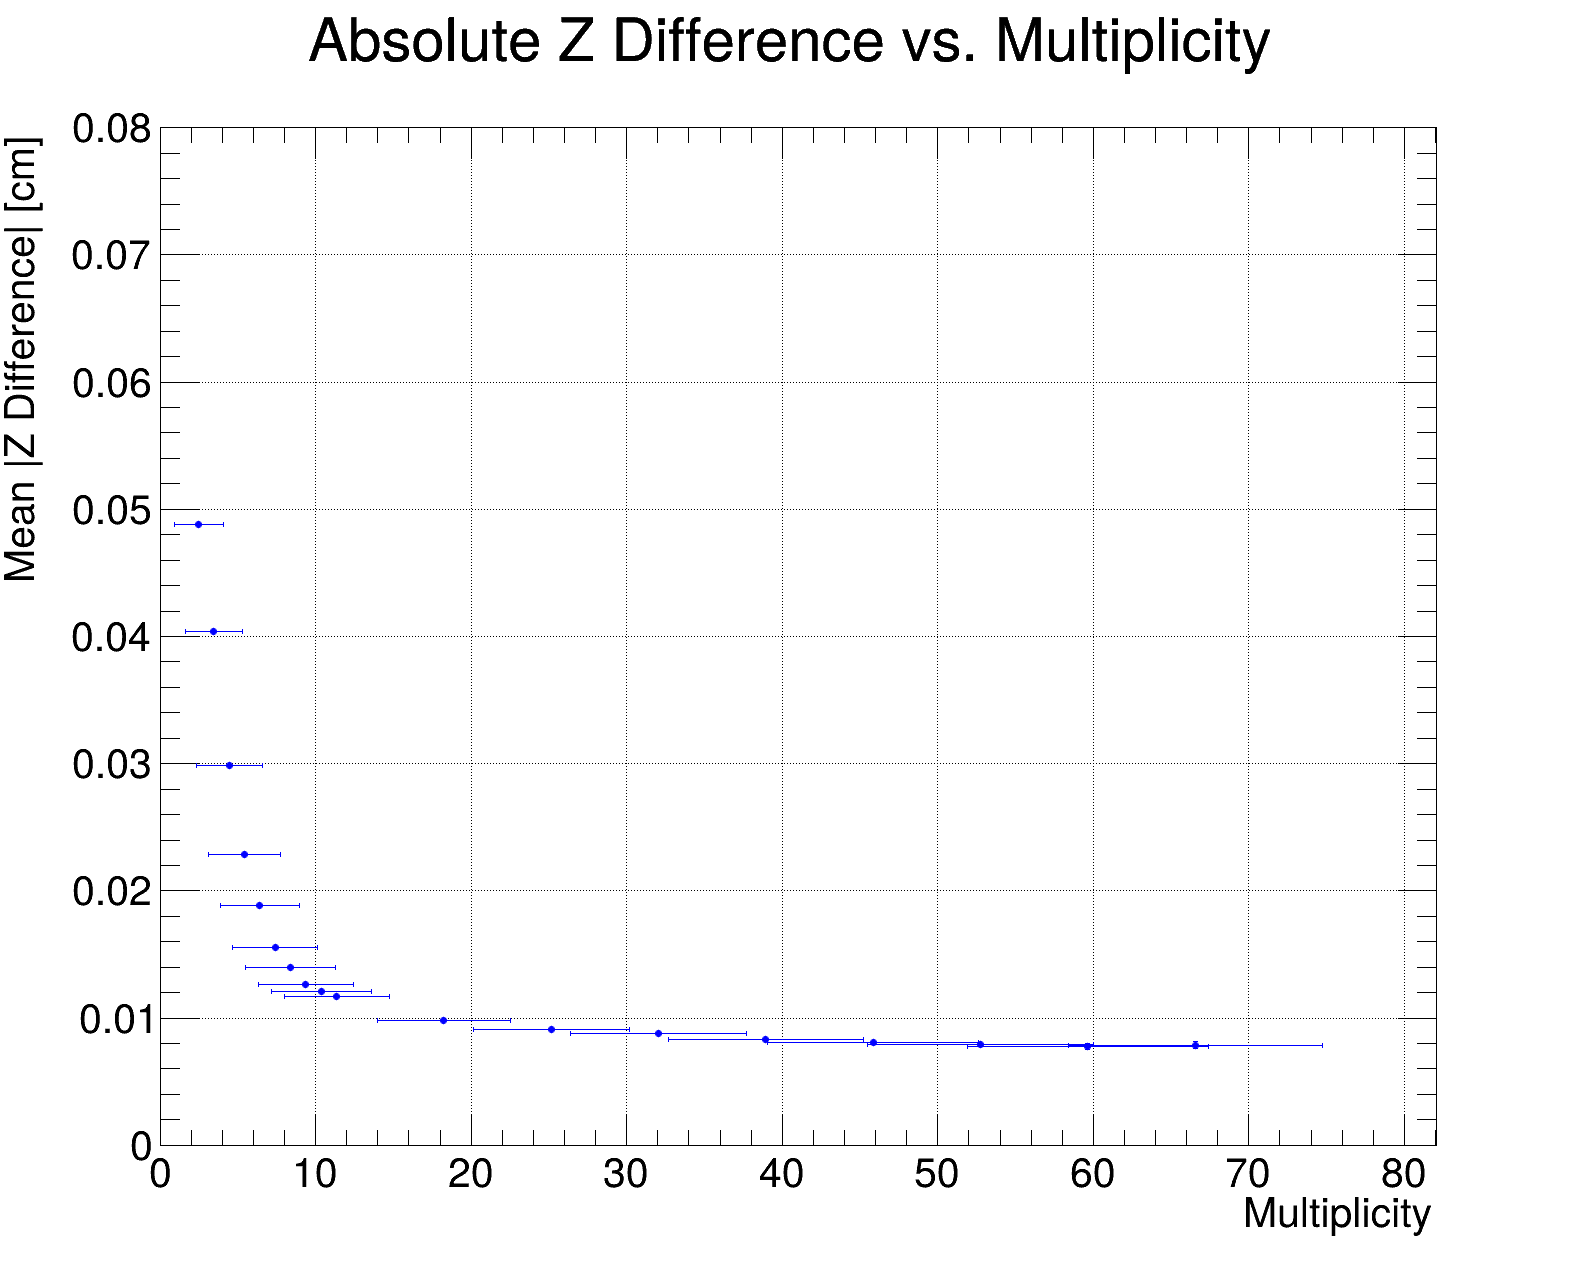
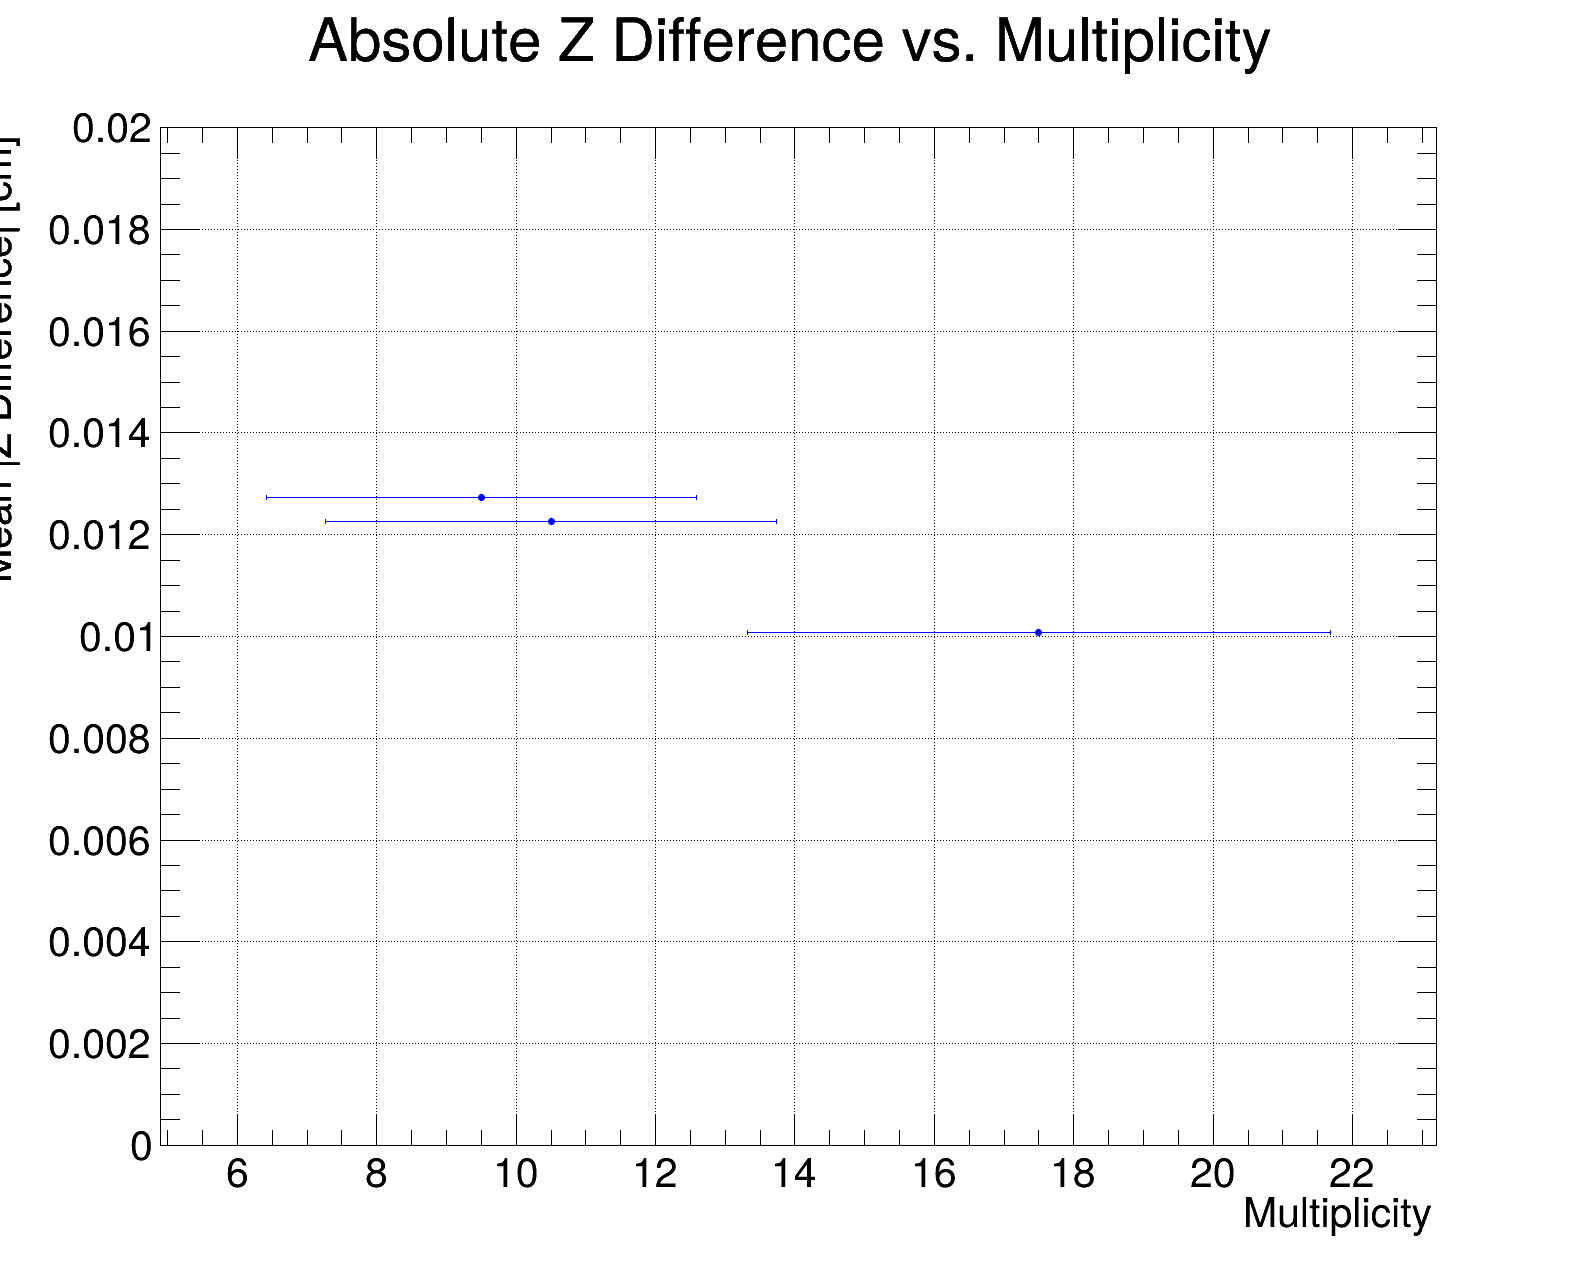
fixed format label on TProfile

diff --git a/project/macros/analysis.C b/project/macros/analysis.C
@@ -91,9 +91,9 @@ void analysis(unsigned int events = 1000000, string distr="custom") {
     double MultMax=0;
     
     if( distr=="uni"){
-      nMultBins = 10;
-      MultMin = 10; 
-      MultMax = 20;
+      nMultBins = 30;
+      MultMin = 0; 
+      MultMax = 30;
      
     } else if(distr=="gaus"){
       nMultBins = 40;
@@ -120,8 +120,8 @@ void analysis(unsigned int events = 1000000, string distr="custom") {
     TH1D* histRes = new TH1D("Residuals", "Z Residuals;Z Difference (reco - gen) [cm];Entries", nResBins, ResMin, ResMax);
     TH1D* histMultTotal = new TH1D("MultTotal", "Multiplicity Distribution;Multiplicity;Entries", nMultBins, MultMin, MultMax);
     TH1D* histMultValid = new TH1D("MultValid", "Valid Events Multiplicity;Multiplicity;Entries", nMultBins, MultMin, MultMax);  
-    TH1D* histZTotal = new TH1D("ZTotal", "Total Events vs Z;Z_{gen} [cm];Entries", nZBins, zMin, zMax);
-    TH1D* histZValid = new TH1D("ZValid", "Valid Events vs Z;Z_{gen} [cm];Entries", nZBins, zMin, zMax);
+    TH1D* histZTotal = new TH1D("ZTotal", "Total Vertices vs Z;Z_{gen} [cm];Entries", nZBins, zMin, zMax);
+    TH1D* histZValid = new TH1D("ZValid", "Reco Vertices vs Z;Z_{gen} [cm];Entries", nZBins, zMin, zMax);
     
     histZTotal->Sumw2();
     histZValid->Sumw2();
@@ -318,6 +318,8 @@ void analysis(unsigned int events = 1000000, string distr="custom") {
 
   if( distr=="uni"){
     profileZDiffGen->GetYaxis()->SetRangeUser(0, 0.04);
+    profileZDiffGen->GetYaxis()->SetMaxDigits(2);
+    profileZDiffGen->GetYaxis()->SetTitleOffset(1.2);
     graphEff->GetYaxis()->SetRangeUser(0.95, 1.001);
     graphZDiff->GetYaxis()->SetRangeUser(0, 0.02);
     graphEffZ->GetYaxis()->SetRangeUser(0.9, 1.001);
@@ -325,13 +327,16 @@ void analysis(unsigned int events = 1000000, string distr="custom") {
   
   } else if (distr=="gaus"){
     profileZDiffGen->GetYaxis()->SetRangeUser(0, 0.03);
+    profileZDiffGen->GetYaxis()->SetMaxDigits(2);
+    profileZDiffGen->GetYaxis()->SetTitleOffset(1.2);
     graphEff->GetYaxis()->SetRangeUser(0.85, 1.001);
     graphZDiff->GetYaxis()->SetRangeUser(0, 0.08);
     graphEffZ->GetYaxis()->SetRangeUser(0.8, 1.001);
   
   } else { // custom
     profileZDiffGen->GetYaxis()->SetRangeUser(0.005, 0.03);
-    profileZDiffGen->GetYaxis()->SetTitleOffset(1.51);
+    profileZDiffGen->GetYaxis()->SetMaxDigits(2);
+    profileZDiffGen->GetYaxis()->SetTitleOffset(1.2);
     graphEff->GetYaxis()->SetRangeUser(0.85, 1.001);
     graphZDiff->GetYaxis()->SetRangeUser(0, 0.08);
     graphEffZ->GetYaxis()->SetRangeUser(0.8, 1.001);
